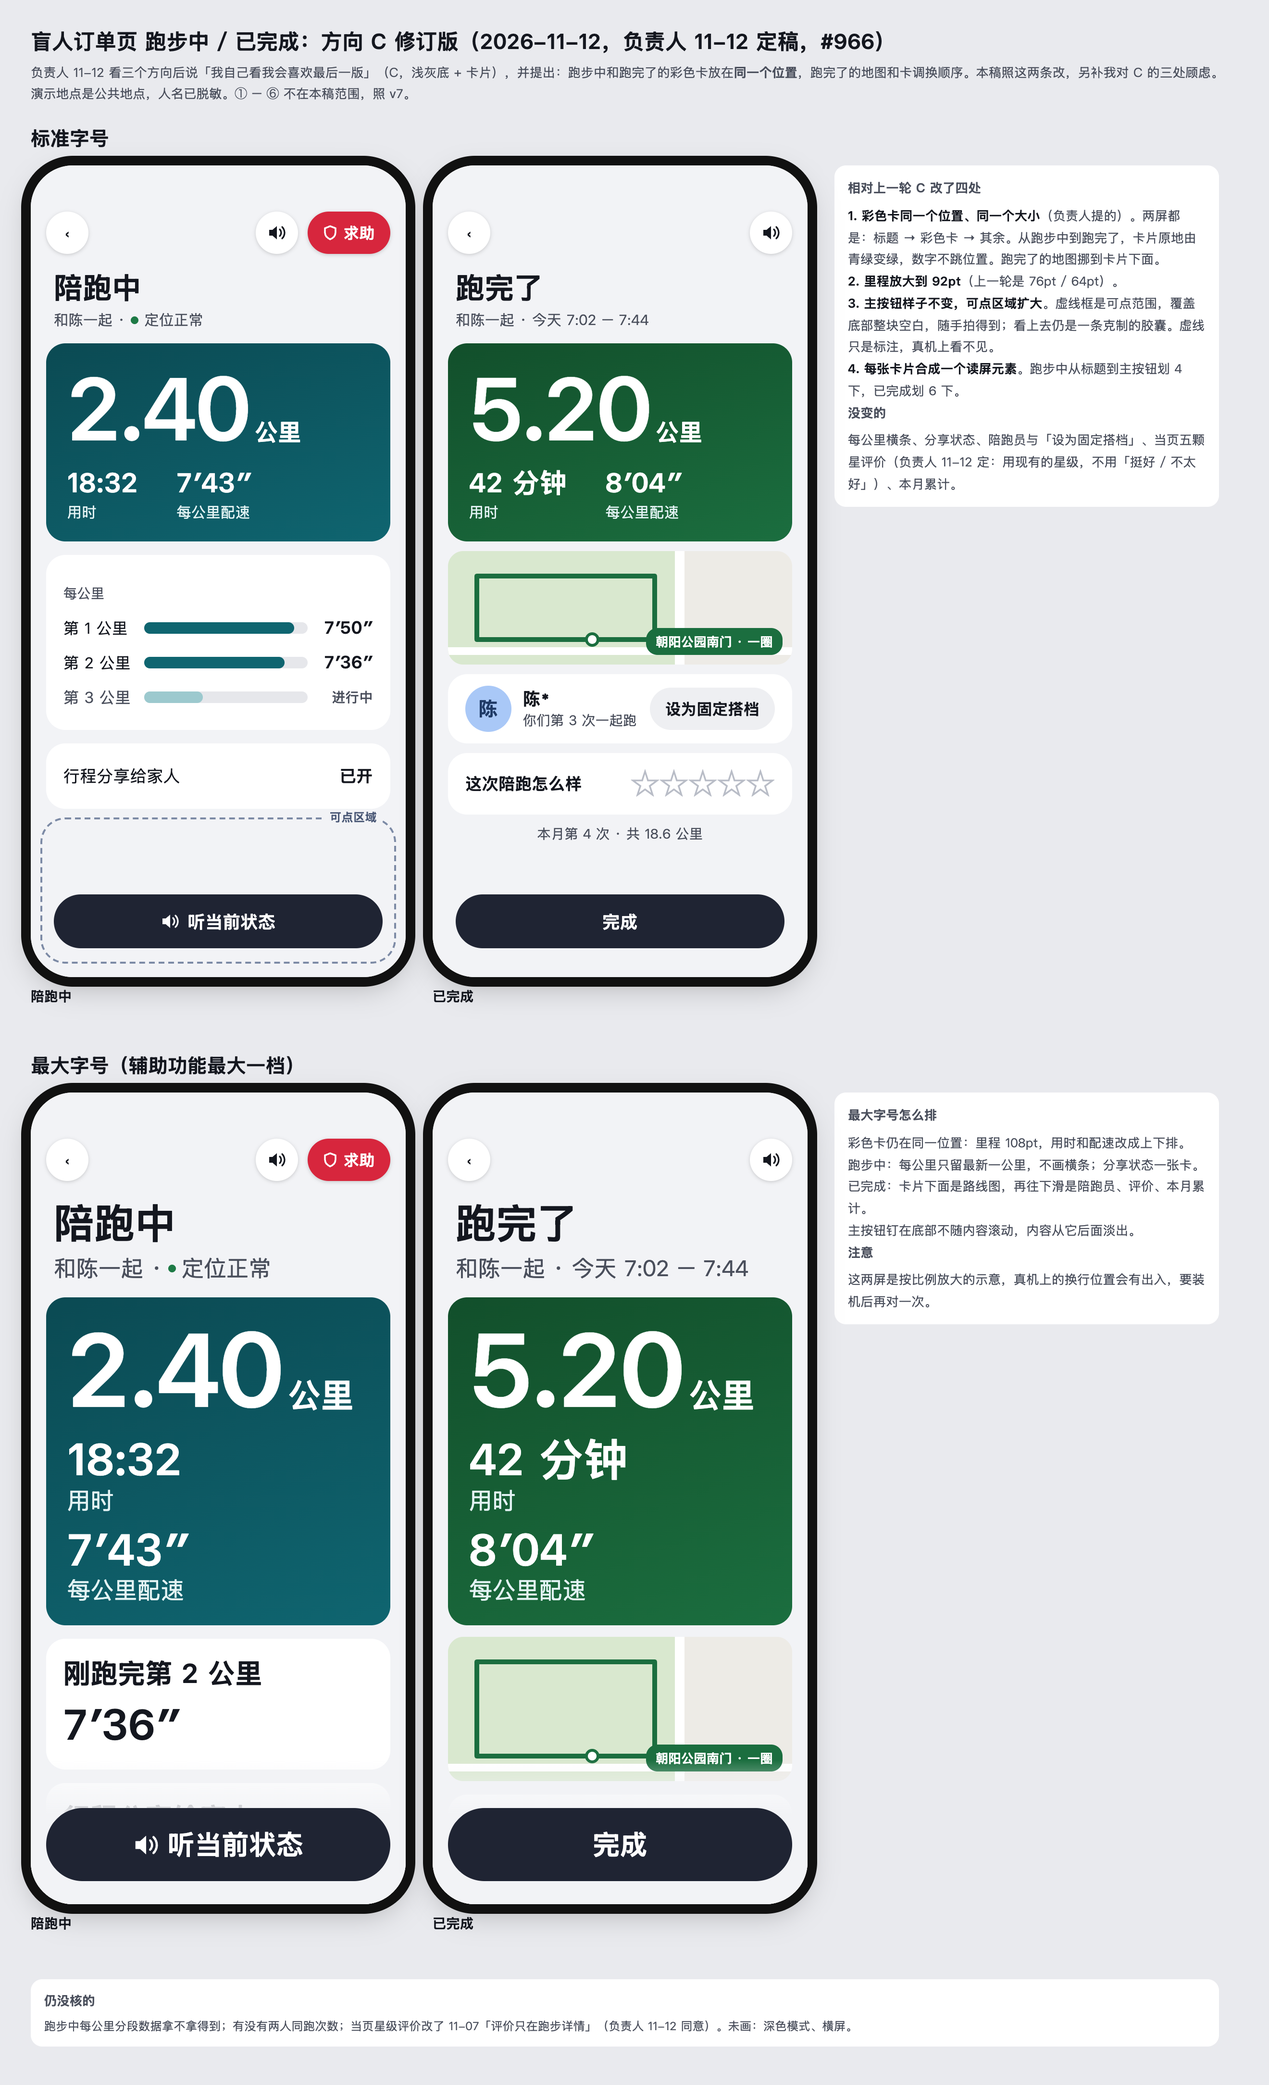
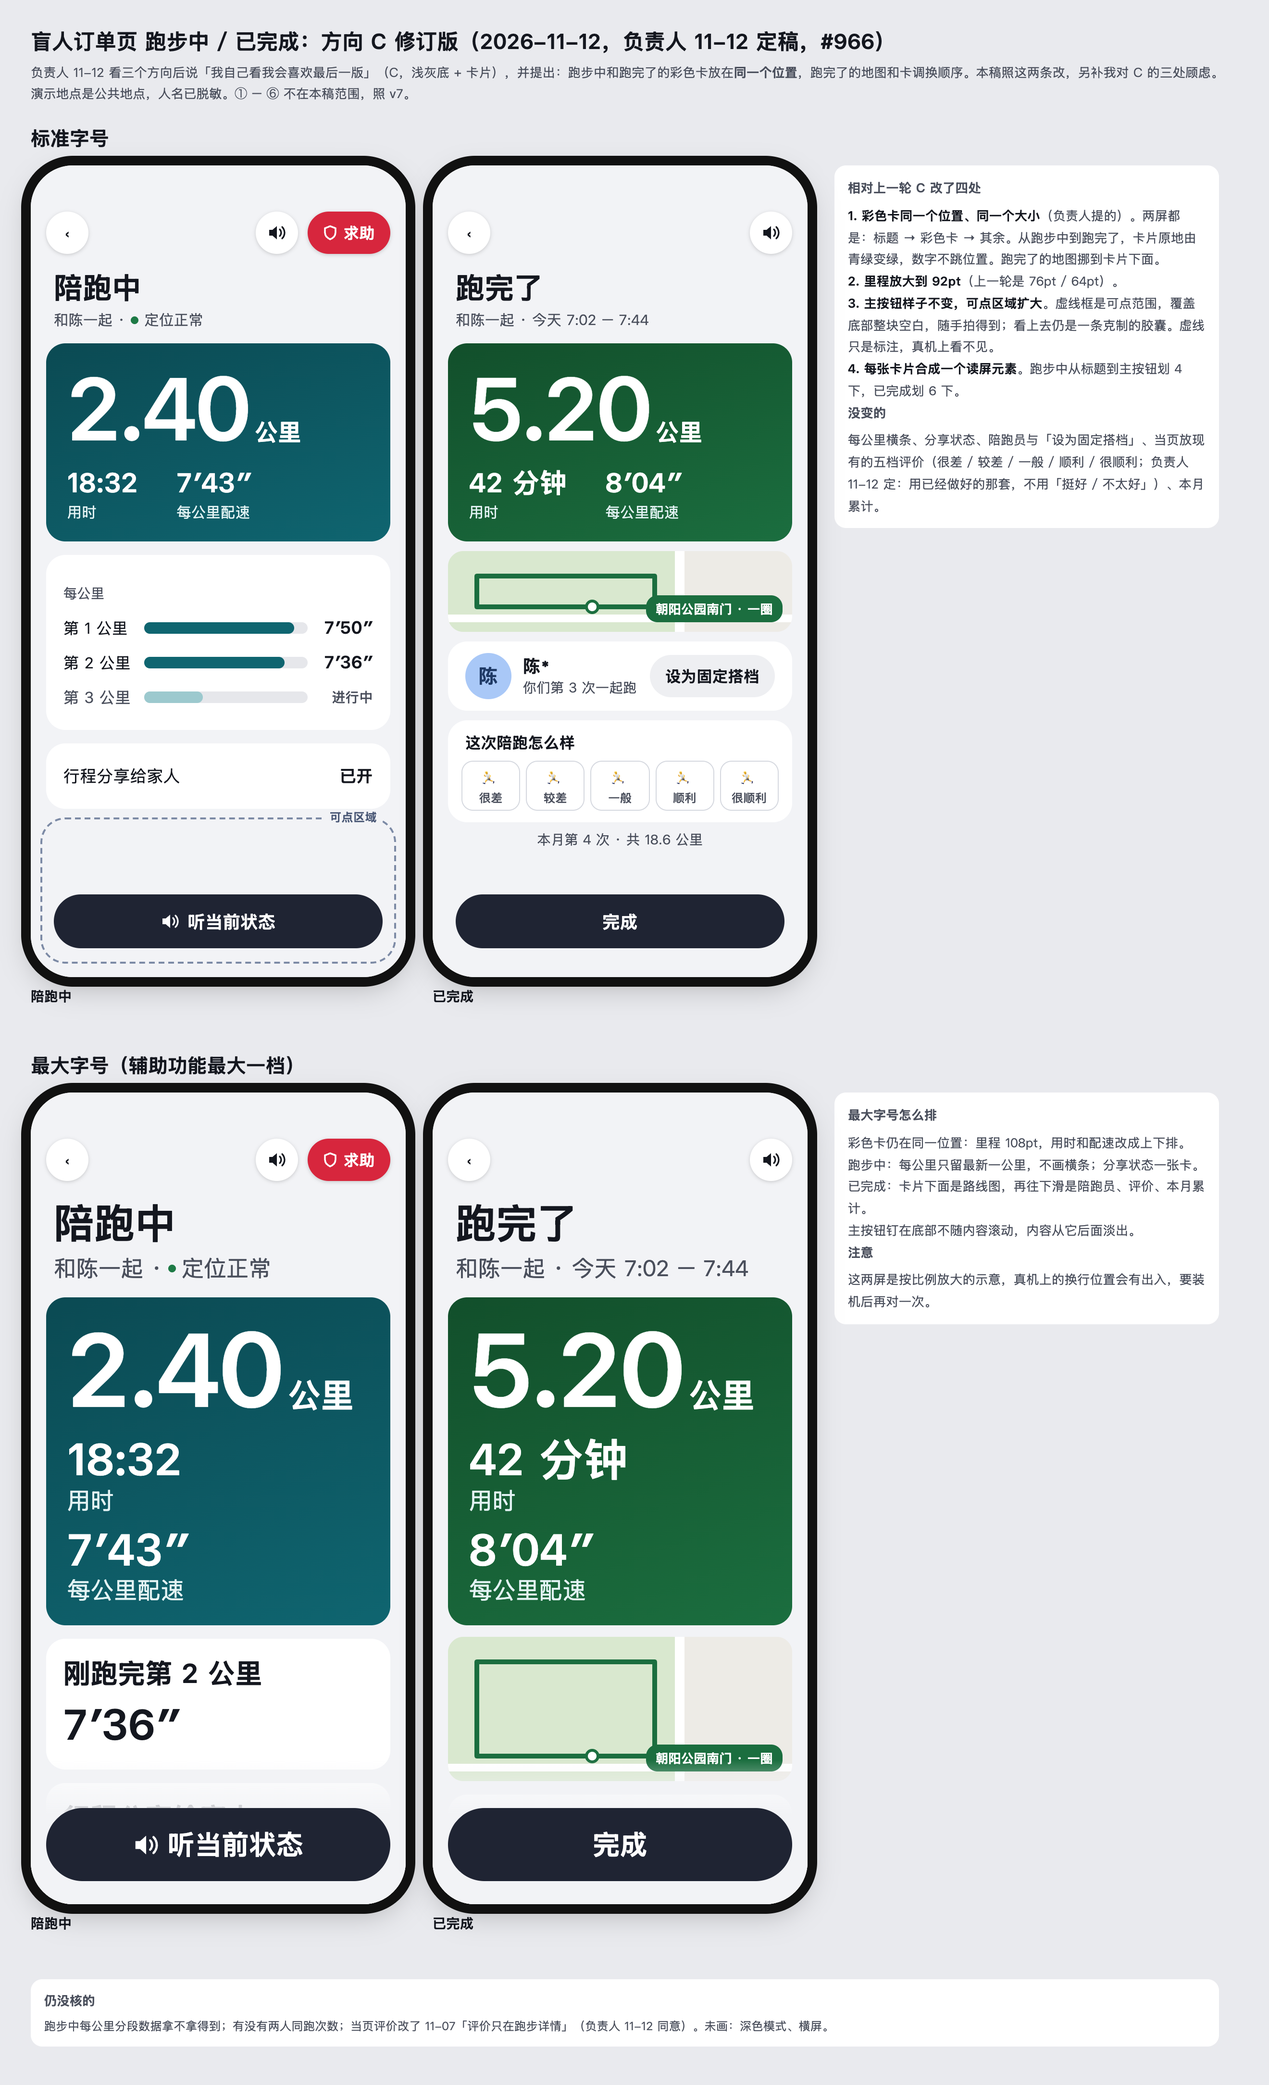
docs: v8 定稿的评价按仓库现有五档写，不新画星星（#966）

Changed region(s): [[0.3417, 0.2802, 0.6212, 0.4048], [0.6523, 0.2179, 0.9318, 0.2491]]

diff --git a/docs/ui/mockups/blind-run-finish-v8-20261112/c-revised.html b/docs/ui/mockups/blind-run-finish-v8-20261112/c-revised.html
@@ -217,13 +217,13 @@
   <div class="hit" style="height:152px"><span>可点区域</span></div>
   <div class="bottom"><div class="cta"><svg width="20" height="18" viewBox="0 0 20 18" fill="currentColor"><path d="M2 6h3.5L10 2v14l-4.5-4H2z"/><path d="M13 5.5a5 5 0 0 1 0 7M15.5 3a8.5 8.5 0 0 1 0 12" stroke="currentColor" stroke-width="1.7" fill="none" stroke-linecap="round"/></svg> 听当前状态</div></div></div><div class="cap">陪跑中</div></div><div class="cell"><div class="phone"><div class="cpage"><div class="ctitle">跑完了</div><div class="csub">和陈一起 · 今天 7:02 – 7:44</div>
   <div class="ccard col greenbg"><div class="dist">5.20<small>公里</small></div><div class="pair"><div><b>42 分钟</b><p>用时</p></div><div><b>8′04″</b><p>每公里配速</p></div></div></div>
-  <div style="margin-top:10px"><div class="route" style="height:118px"><div class="pk"></div><div class="rd" style="left:0;right:0;bottom:10px;height:8px"></div><div class="rd" style="left:66%;top:0;bottom:0;width:10px"></div>
-    <svg style="position:absolute;left:0;top:0" width="342" height="118"><polyline points="150,92 30,92 30,26 215,26 215,92 150,92" stroke="#1B6E3F" stroke-width="5" fill="none" stroke-linejoin="round" stroke-linecap="round"/><circle cx="150" cy="92" r="6" fill="#fff" stroke="#1B6E3F" stroke-width="3"/></svg>
+  <div style="margin-top:10px"><div class="route" style="height:84px"><div class="pk"></div><div class="rd" style="left:0;right:0;bottom:10px;height:8px"></div><div class="rd" style="left:66%;top:0;bottom:0;width:10px"></div>
+    <svg style="position:absolute;left:0;top:0" width="342" height="84"><polyline points="150,58 30,58 30,26 215,26 215,58 150,58" stroke="#1B6E3F" stroke-width="5" fill="none" stroke-linejoin="round" stroke-linecap="round"/><circle cx="150" cy="58" r="6" fill="#fff" stroke="#1B6E3F" stroke-width="3"/></svg>
     <div class="tagp">朝阳公园南门 · 一圈</div></div></div>
   <div class="ccard" style="margin-top:10px;display:flex;align-items:center;gap:12px;padding:12px 18px"><div class="av">陈</div><div><div style="font-size:18px;font-weight:700">陈*</div><div class="faint" style="font-size:14px">你们第 3 次一起跑</div></div><div class="lchip" style="margin-left:auto">设为固定搭档</div></div>
-  <div class="ccard" style="margin-top:10px;display:flex;align-items:center;gap:10px;padding:10px 18px;font-size:17px;font-weight:600">这次陪跑怎么样<div style="margin-left:auto;display:flex;gap:2px;font-size:30px;line-height:44px;color:#B9BDC7;font-weight:400">☆☆☆☆☆</div></div>
-  <div class="ccap" style="margin-top:10px">本月第 4 次 · 共 18.6 公里</div></div><div class="top"><div class="round">‹</div><div class="spacer"></div><div class="round"><svg width="20" height="18" viewBox="0 0 20 18" fill="currentColor"><path d="M2 6h3.5L10 2v14l-4.5-4H2z"/><path d="M13 5.5a5 5 0 0 1 0 7M15.5 3a8.5 8.5 0 0 1 0 12" stroke="currentColor" stroke-width="1.7" fill="none" stroke-linecap="round"/></svg></div></div>
-  <div class="bottom"><div class="cta">完成</div></div></div><div class="cap">已完成</div></div><div class="side"><div class="anno note" style="margin-top:0;font-size:13px;line-height:1.75"><h4>相对上一轮 C 改了四处</h4><b>1. 彩色卡同一个位置、同一个大小</b>（负责人提的）。两屏都是：标题 → 彩色卡 → 其余。从跑步中到跑完了，卡片原地由青绿变绿，数字不跳位置。跑完了的地图挪到卡片下面。<br><b>2. 里程放大到 92pt</b>（上一轮是 76pt / 64pt）。<br><b>3. 主按钮样子不变，可点区域扩大</b>。虚线框是可点范围，覆盖底部整块空白，随手拍得到；看上去仍是一条克制的胶囊。虚线只是标注，真机上看不见。<br><b>4. 每张卡片合成一个读屏元素</b>。跑步中从标题到主按钮划 4 下，已完成划 6 下。<h4>没变的</h4>每公里横条、分享状态、陪跑员与「设为固定搭档」、当页五颗星评价（负责人 11-12 定：用现有的星级，不用「挺好 / 不太好」）、本月累计。</div></div></div>
+  <div class="ccard" style="margin-top:10px;padding:12px 14px"><div style="font-size:16px;font-weight:600;margin-bottom:8px;padding-left:4px">这次陪跑怎么样</div><div style="display:flex;gap:6px"><div style="flex:1;height:52px;border-radius:12px;border:1.5px solid #D5D8DF;display:flex;flex-direction:column;align-items:center;justify-content:center;font-size:12px;font-weight:500;color:#4A4F5C;gap:1px"><span style="font-size:15px">🏃</span>很差</div><div style="flex:1;height:52px;border-radius:12px;border:1.5px solid #D5D8DF;display:flex;flex-direction:column;align-items:center;justify-content:center;font-size:12px;font-weight:500;color:#4A4F5C;gap:1px"><span style="font-size:15px">🏃</span>较差</div><div style="flex:1;height:52px;border-radius:12px;border:1.5px solid #D5D8DF;display:flex;flex-direction:column;align-items:center;justify-content:center;font-size:12px;font-weight:500;color:#4A4F5C;gap:1px"><span style="font-size:15px">🏃</span>一般</div><div style="flex:1;height:52px;border-radius:12px;border:1.5px solid #D5D8DF;display:flex;flex-direction:column;align-items:center;justify-content:center;font-size:12px;font-weight:500;color:#4A4F5C;gap:1px"><span style="font-size:15px">🏃</span>顺利</div><div style="flex:1;height:52px;border-radius:12px;border:1.5px solid #D5D8DF;display:flex;flex-direction:column;align-items:center;justify-content:center;font-size:12px;font-weight:500;color:#4A4F5C;gap:1px"><span style="font-size:15px">🏃</span>很顺利</div></div></div>
+  <div class="ccap" style="margin-top:8px">本月第 4 次 · 共 18.6 公里</div></div><div class="top"><div class="round">‹</div><div class="spacer"></div><div class="round"><svg width="20" height="18" viewBox="0 0 20 18" fill="currentColor"><path d="M2 6h3.5L10 2v14l-4.5-4H2z"/><path d="M13 5.5a5 5 0 0 1 0 7M15.5 3a8.5 8.5 0 0 1 0 12" stroke="currentColor" stroke-width="1.7" fill="none" stroke-linecap="round"/></svg></div></div>
+  <div class="bottom"><div class="cta">完成</div></div></div><div class="cap">已完成</div></div><div class="side"><div class="anno note" style="margin-top:0;font-size:13px;line-height:1.75"><h4>相对上一轮 C 改了四处</h4><b>1. 彩色卡同一个位置、同一个大小</b>（负责人提的）。两屏都是：标题 → 彩色卡 → 其余。从跑步中到跑完了，卡片原地由青绿变绿，数字不跳位置。跑完了的地图挪到卡片下面。<br><b>2. 里程放大到 92pt</b>（上一轮是 76pt / 64pt）。<br><b>3. 主按钮样子不变，可点区域扩大</b>。虚线框是可点范围，覆盖底部整块空白，随手拍得到；看上去仍是一条克制的胶囊。虚线只是标注，真机上看不见。<br><b>4. 每张卡片合成一个读屏元素</b>。跑步中从标题到主按钮划 4 下，已完成划 6 下。<h4>没变的</h4>每公里横条、分享状态、陪跑员与「设为固定搭档」、当页放现有的五档评价（很差 / 较差 / 一般 / 顺利 / 很顺利；负责人 11-12 定：用已经做好的那套，不用「挺好 / 不太好」）、本月累计。</div></div></div>
 <div class="vhead">最大字号（辅助功能最大一档）</div><div class="vrow"><div class="cell"><div class="phone ax"><div class="cpage"><div class="ctitle">陪跑中</div><div class="csub">和陈一起 · <i></i>定位正常</div>
   <div class="ccard col tealbg"><div class="dist">2.40<small>公里</small></div><div class="stk"><b>18:32</b><p>用时</p><b>7′43″</b><p style="margin-bottom:0">每公里配速</p></div></div>
   <div class="ccard big1">刚跑完第 2 公里<b>7′36″</b></div>
@@ -235,4 +235,4 @@
     <div class="tagp">朝阳公园南门 · 一圈</div></div></div>
   <div class="ccard big1">陈*<b style="font-size:28px">你们第 3 次一起跑</b></div></div><div class="top"><div class="round">‹</div><div class="spacer"></div><div class="round"><svg width="20" height="18" viewBox="0 0 20 18" fill="currentColor"><path d="M2 6h3.5L10 2v14l-4.5-4H2z"/><path d="M13 5.5a5 5 0 0 1 0 7M15.5 3a8.5 8.5 0 0 1 0 12" stroke="currentColor" stroke-width="1.7" fill="none" stroke-linecap="round"/></svg></div></div>
   <div class="fade"></div><div class="bottom" style="left:16px;right:16px;bottom:24px"><div class="cta">完成</div></div></div><div class="cap">已完成</div></div><div class="side"><div class="anno note" style="margin-top:0;font-size:13px;line-height:1.75"><h4>最大字号怎么排</h4>彩色卡仍在同一位置：里程 108pt，用时和配速改成上下排。<br>跑步中：每公里只留最新一公里，不画横条；分享状态一张卡。<br>已完成：卡片下面是路线图，再往下滑是陪跑员、评价、本月累计。<br>主按钮钉在底部不随内容滚动，内容从它后面淡出。<h4>注意</h4>这两屏是按比例放大的示意，真机上的换行位置会有出入，要装机后再对一次。</div></div></div>
-<div class="anno note" style="max-width:1236px"><h4>仍没核的</h4>跑步中每公里分段数据拿不拿得到；有没有两人同跑次数；当页星级评价改了 11-07「评价只在跑步详情」（负责人 11-12 同意）。未画：深色模式、横屏。</div></body></html>
+<div class="anno note" style="max-width:1236px"><h4>仍没核的</h4>跑步中每公里分段数据拿不拿得到；有没有两人同跑次数；当页评价改了 11-07「评价只在跑步详情」（负责人 11-12 同意）。未画：深色模式、横屏。</div></body></html>

diff --git a/docs/ui/mockups/INDEX.md b/docs/ui/mockups/INDEX.md
@@ -88,4 +88,4 @@ Claude Design 官方自认「没有版本历史」（[support.claude.com 原文]
 | 盲人端 订单页全流程改版（顶栏 + 右上角求助胶囊 → 深色状态头或地图 → 白色抽屉 + 竖向时间轴 → 底部一个深色主按钮；出发 / 已到达态地图显示自己与陪跑员） | `blind-order-tracking-20261109/`（`owner-draft-*.png` 负责人原稿；`draft.html` + `draft.png` v7：①–④ 竖线只展开当前一步、六步并成五步（11-11）；v6 补通话与确认两屏；统一竖线（出发起拉起抽屉才逐渐显示），出发起地图常驻只换抽屉；参考截图见 `REFERENCES.md`；`v7-proposal.*` 是 v6 / v7 对比） | Current（负责人 2026-11-09 定稿 v6，2026-11-11 定稿 v7，原话「可以我同意」） | 取代 `blind-redesign-20261007/` 订单页部分（匹配 / 约好 / 出发 / 汇合 / 跑步中的头卡与 `RopeView`）；推翻 10-06 / 10-07「求助留在底部」；进度只用竖线（v3 横向胶囊作废）；⑧ 取代 `order-done-review-20261107/` 的已完成订单页；②③ 取代 `intro-call-meetup-plan-20261015/` 盲人端 B1–B3 与 `blind-match-first-20261106/` B3 的版式（内容与文案不变）；**首页订单卡不在范围**；**⑦ 陪跑中、⑧ 已完成两屏 2026-11-12 起被 `blind-run-finish-v8-20261112/` 取代** | `DECISION.md`（十条决定与原话）；issue #909；缺的 `eta` / `suggestedDepartAt` 见 Jayden23018/blind-run-backend#943 | `BlindOrderFlowView.swift` `BlindOrderFlowStep.swift` `BlindOrderStatusView+Flow.swift` `BlindOrderStatusView.swift` `BlindIntroCallView.swift` | 未实现 |
 | 盲人端 约跑页「精确位置关闭告知 + 开放范围提示」 | `booking-gate-20261111/` | Current | 无（加在 v5 约跑页上） | `booking-gate-20261111/DECISION.md`（负责人 2026-11-12 看真实系统框截图后批 v2） | `BlindMatchFirstBookingView.swift`（#813） | v2 现行稿（v1 说明卡被负责人否）。已实现，未逐屏对照真机（负责人自己验）。#813；开放城市由后端 `areaHint` 下发 |
 | 陪跑员订单页补齐盲人端 v7 逻辑（③ 等跑者确认的呼吸圆点与确认那一刻、进页加载外壳、已取消竖线按状态记录停、跑步中实时路线） | `volunteer-order-v7-parity-20261112/`（`draft.html` + `draft.png`） | Current（负责人 2026-11-12 批准；追加：跑步中删掉「取消陪跑」） | 在 `volunteer-order-v7-20261111/` 上补逻辑，不改版式 | `DECISION.md`；issue #962 | `VolunteerIntroCallView.swift` `VolunteerInServiceView*.swift` `VolunteerOrderFlowPage.swift` | 未实现 |
-| 盲人端 订单页 ⑦ 陪跑中 / ⑧ 已完成 v8（浅灰底 + 卡片；跑步中不放地图，里程 92pt；两屏彩色卡同位置；已完成页卡片下面是路线小图、陪跑员、星级评价、本月累计；不放竖线） | `blind-run-finish-v8-20261112/`（**定稿 `c-revised.html` + `c-revised.png`**，含最大字号两屏；`draft.*` 第一版与 `variants.*` A / B / C 三个方向只是过程记录，不照它们实现） | Current（负责人 2026-11-12 定稿，原话「可以，我觉得就按照这个进行修改吧」） | 取代 `blind-order-tracking-20261109/` ⑦ ⑧ 两屏（其 DECISION 第 5、6、10 条在这两屏不再适用）；当页星级评价改 `order-done-review-20261107/`「评价只在跑步详情」；① – ⑥ 不变 | 包内 `DECISION.md`；issue #966 | `BlindOrderTrackingDrawer.swift` `BlindOrderTrackingView.swift` | 未实现。拿不到数据时的退路见 DECISION；对比度按彩色卡最浅处算：白字 6.74 / 6.27；深色模式、横屏未画 |
+| 盲人端 订单页 ⑦ 陪跑中 / ⑧ 已完成 v8（浅灰底 + 卡片；跑步中不放地图，里程 92pt；两屏彩色卡同位置；已完成页卡片下面是路线小图、陪跑员、现有五档评价、本月累计；不放竖线） | `blind-run-finish-v8-20261112/`（**定稿 `c-revised.html` + `c-revised.png`**，含最大字号两屏；`draft.*` 第一版与 `variants.*` A / B / C 三个方向只是过程记录，不照它们实现） | Current（负责人 2026-11-12 定稿，原话「可以，我觉得就按照这个进行修改吧」） | 取代 `blind-order-tracking-20261109/` ⑦ ⑧ 两屏（其 DECISION 第 5、6、10 条在这两屏不再适用）；当页评价改 `order-done-review-20261107/`「评价只在跑步详情」；① – ⑥ 不变 | 包内 `DECISION.md`；issue #966 | `BlindOrderTrackingDrawer.swift` `BlindOrderTrackingView.swift` | 未实现。拿不到数据时的退路见 DECISION；对比度按彩色卡最浅处算：白字 6.74 / 6.27；深色模式、横屏未画 |

diff --git a/docs/ui/mockups/blind-run-finish-v8-20261112/DECISION.md b/docs/ui/mockups/blind-run-finish-v8-20261112/DECISION.md
@@ -13,7 +13,7 @@ issue #966。只改这两屏；① – ⑥ 照 `blind-order-tracking-20261109/` 
 
 1. **选方向 C（浅灰底 + 卡片）**。原话：「我自己看我会喜欢最后一版。次选就是方向 B。」对整屏一种颜色（B）的原话：「整个都换成一个颜色。你确定好吗？」B、A 不做。
 2. **两屏彩色卡同一个位置、同一个大小；已完成页地图挪到卡片下面**。原话：「跑步中和跑完了……这一个卡要不要同一个位置，跑完了你的那个地图和卡的顺序调换一下，这样显得统一一点」。两屏都是：标题 → 彩色卡 → 其余。
-3. **评价用现有的星级，不用「挺好 / 不太好」**。原话：「我记得我不是做了一个图表的，就不是说好和不好，而是有那种评分的星级的就可以了。」已完成页当页放五颗星。**改 11-07「评价只在跑步详情」**（`order-done-review-20261107/`）。
+3. **评价用已经做好的那一套，不用「挺好 / 不太好」**。原话：「我记得我不是做了一个图表的，就不是说好和不好，而是有那种评分的星级的就可以了。」仓库里现有的是五档文字 + 跑步小人（很差 / 较差 / 一般 / 顺利 / 很顺利，`RunExperienceRatingPicker`；2026-10-07 定过「不用星星」），契约仍是 1–5 分。**按现有这套放，不新画星星**；负责人若确实要星星外观，另开一项。已完成页当页放。**改 11-07「评价只在跑步详情」**（`order-done-review-20261107/`）。
 4. **定稿并实现**。原话：「可以，我觉得就按照这个进行修改吧。然后装到我的手机上。」
 
 ## 版式（照定稿图）
@@ -22,7 +22,7 @@ issue #966。只改这两屏；① – ⑥ 照 `blind-order-tracking-20261109/` 
 - 里程 92pt。**改 v7 第 10 条**「陪跑中距离 44pt」「已完成页地图 + 绿色成果卡」。
 - 这两屏不放竖线。**改 v7 第 5 条**在这两屏的适用。
 - 跑步中：标题「陪跑中」+ 副标题（和谁、定位状态）→ 青绿卡（里程、用时、每公里配速）→ 每公里卡 → 行程分享状态卡 → 底部「听当前状态」。
-- 已完成：标题「跑完了」+ 副标题（和谁、起止时间）→ 绿卡 → 路线小图 → 陪跑员与「设为固定搭档」→ 星级评价 → 本月累计 → 底部「完成」。
+- 已完成：标题「跑完了」+ 副标题（和谁、起止时间）→ 绿卡 → 路线小图 → 陪跑员与「设为固定搭档」→ 五档评价 → 本月累计 → 底部「完成」。
 - 主按钮样子不变（克制的胶囊），可点区域扩到底部整块空白。
 - 每张卡片合成一个读屏元素。
 - 最大字号：彩色卡仍在同一位置，用时与配速改上下排；跑步中只留最新一公里；主按钮钉在底部。
